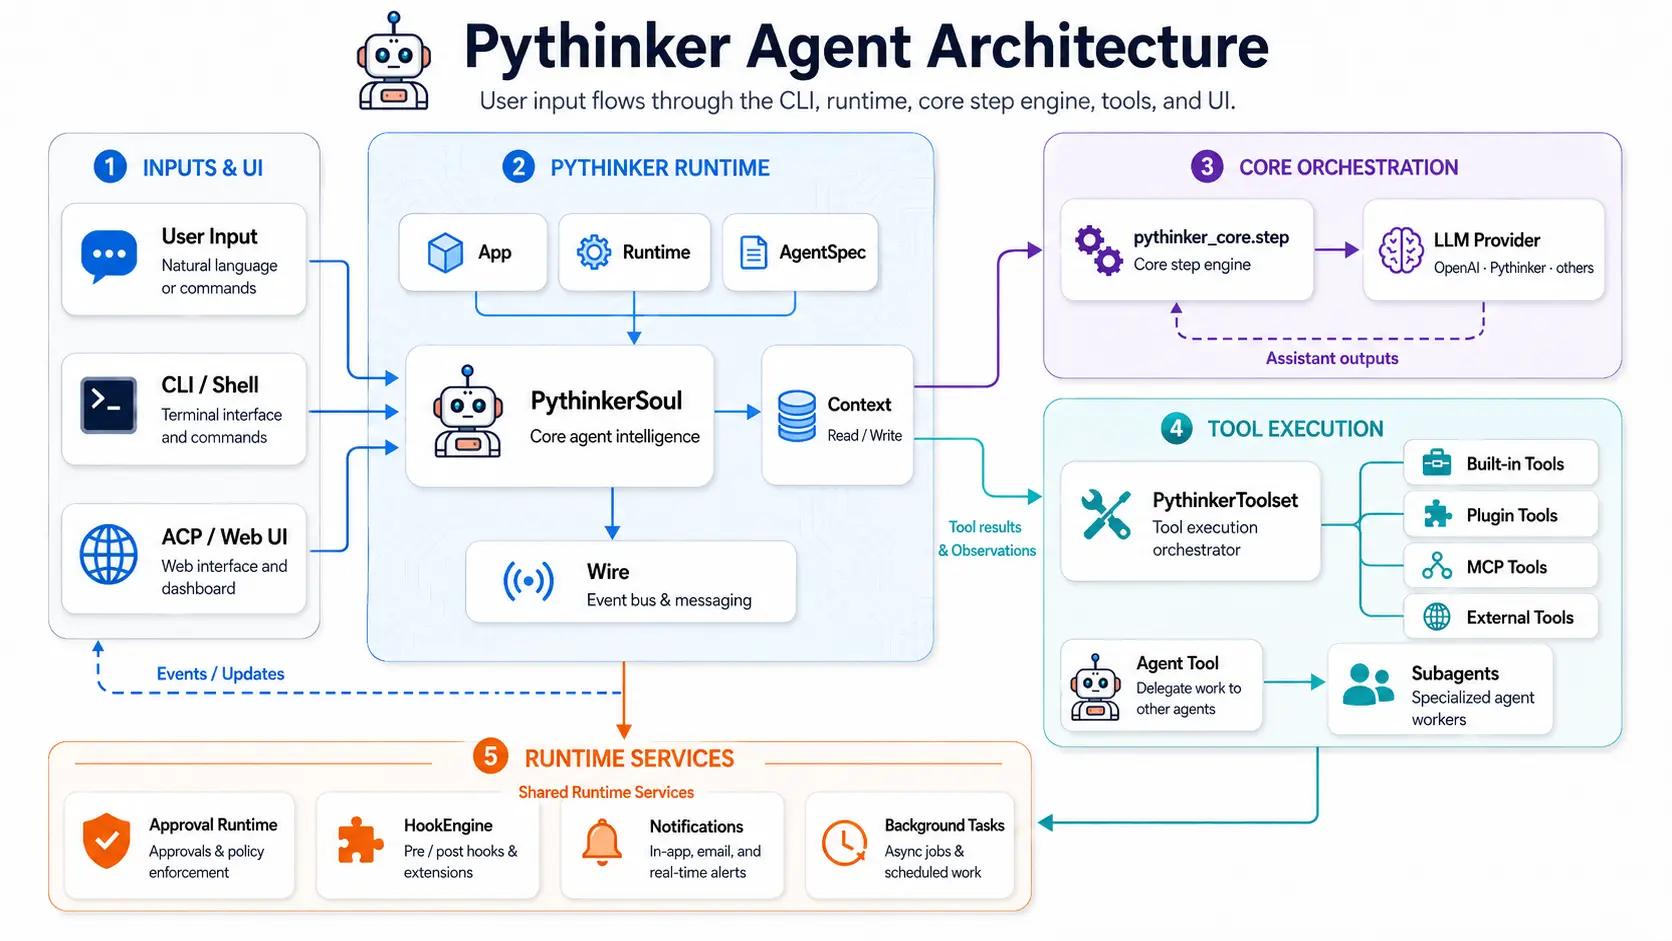
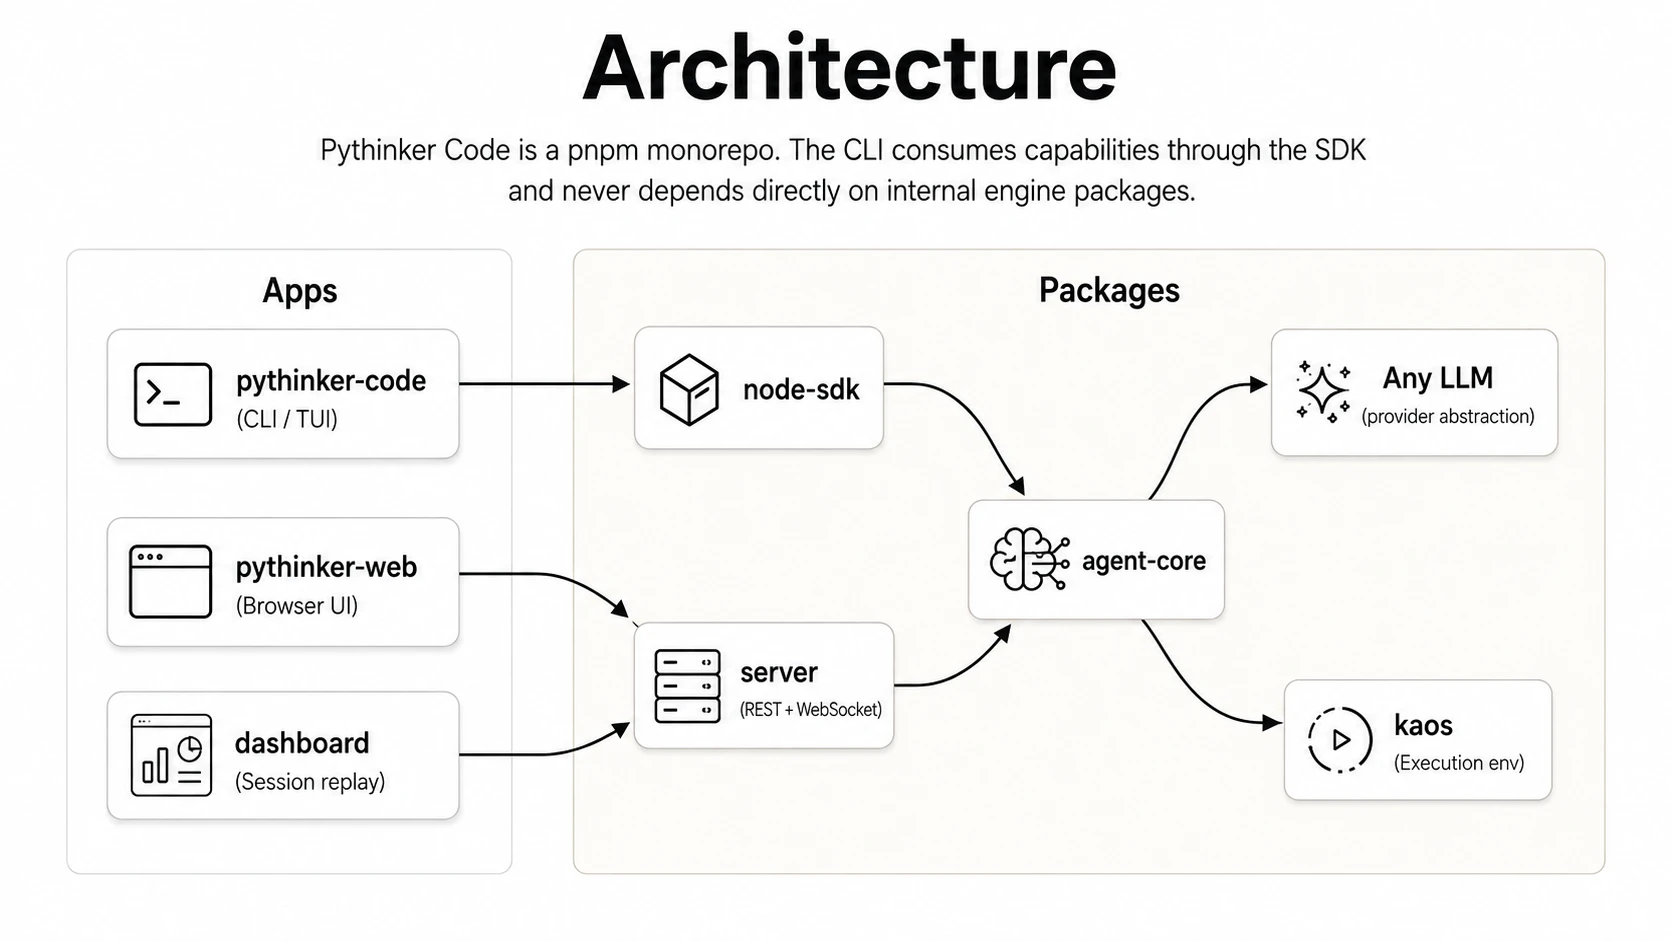
docs: replace README architecture mermaid diagram with image

diff --git a/README.md b/README.md
@@ -227,30 +227,9 @@ See the [configuration docs](https://pythoughts-labs.github.io/pythinker-code/co
 
 Pythinker Code is a **pnpm monorepo**. The CLI consumes capabilities through the SDK and never depends directly on internal engine packages.
 
-```mermaid
-flowchart LR
-  subgraph Apps
-    CLI["pythinker-code<br/>(CLI / TUI)"]
-    WEB["pythinker-web<br/>(Browser UI)"]
-    DASH["dashboard<br/>(Session replay)"]
-  end
-
-  subgraph Packages
-    SDK["node-sdk"]
-    CORE["agent-core"]
-    ANYLLM["Any LLM<br/>(provider abstraction)"]
-    KAOS["kaos<br/>(Execution env)"]
-    SERVER["server<br/>(REST + WebSocket)"]
-  end
-
-  CLI --> SDK
-  WEB --> SERVER
-  DASH --> SERVER
-  SDK --> CORE
-  SERVER --> CORE
-  CORE --> ANYLLM
-  CORE --> KAOS
-```
+<p align="center">
+  <img src="docs/media/Architecture.webp" alt="Pythinker Code architecture" width="836" />
+</p>
 
 | Package | Role |
 |---------|------|
